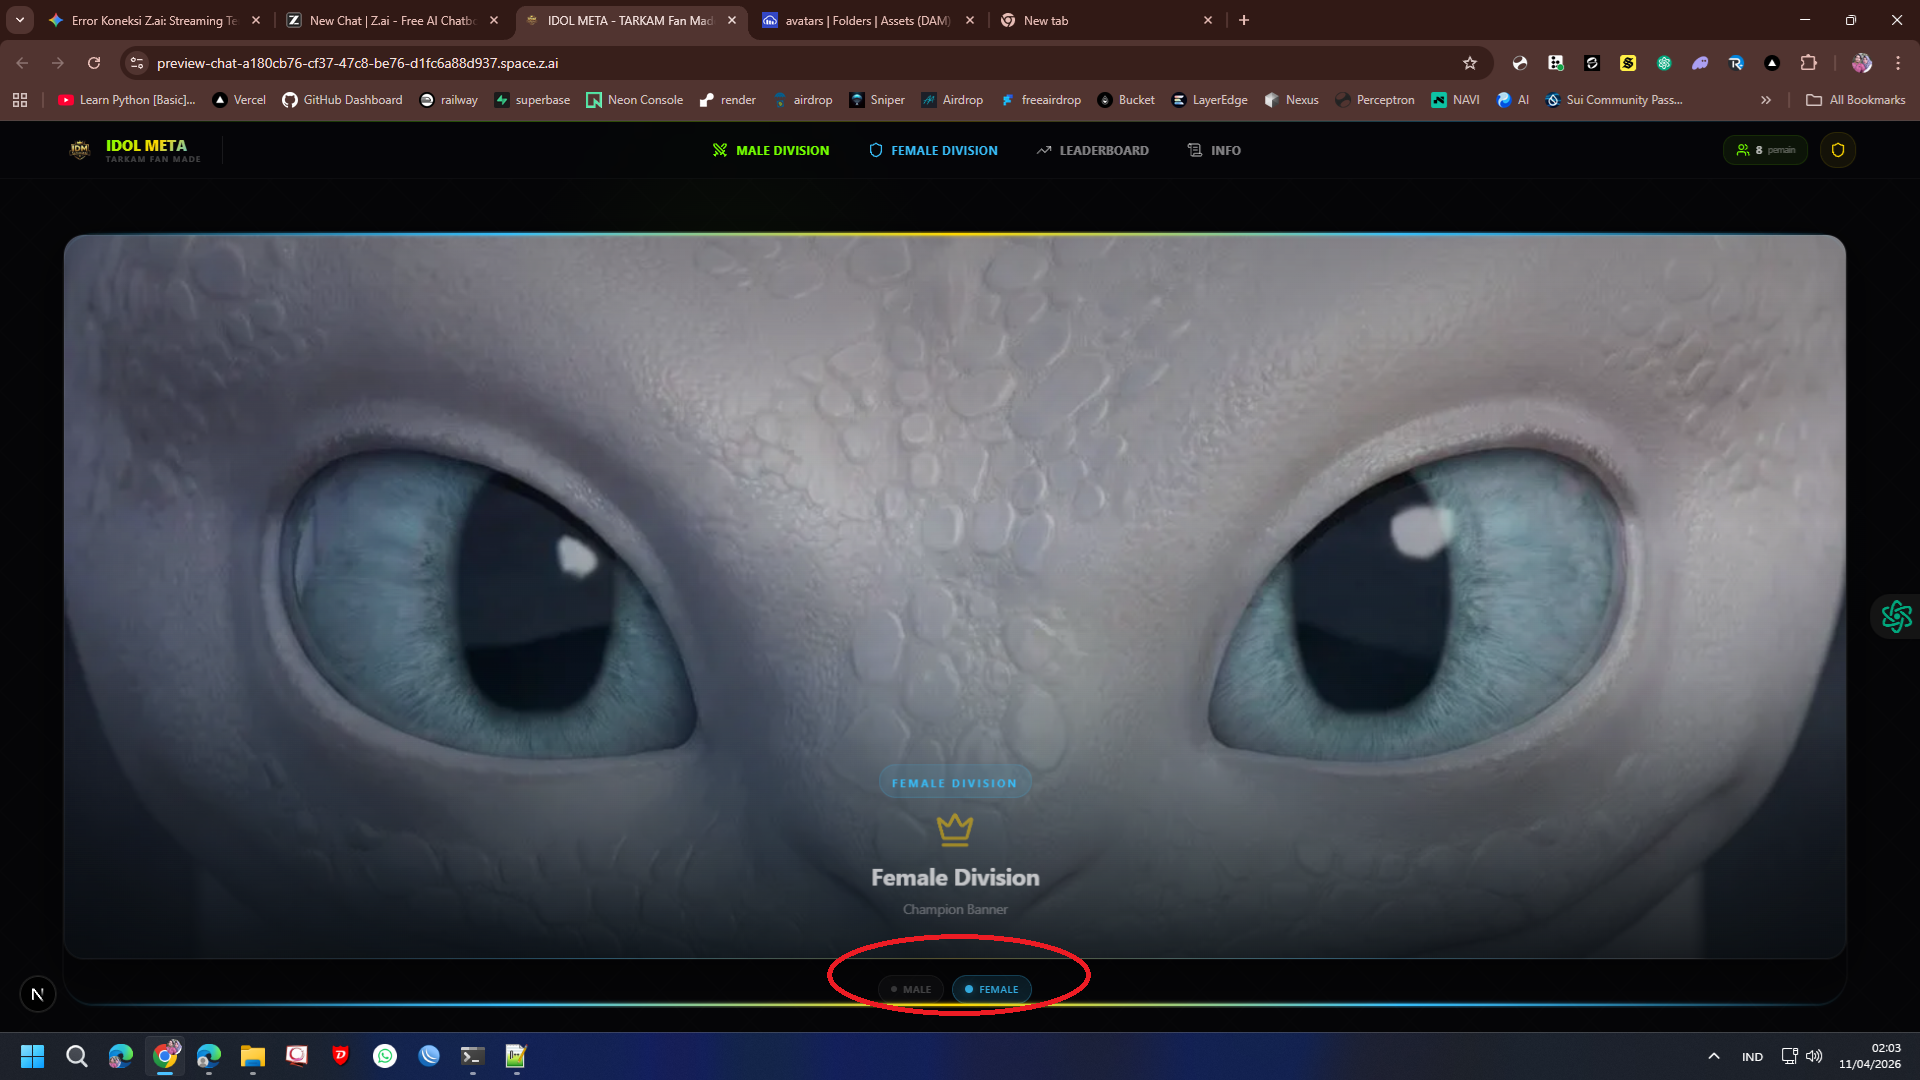
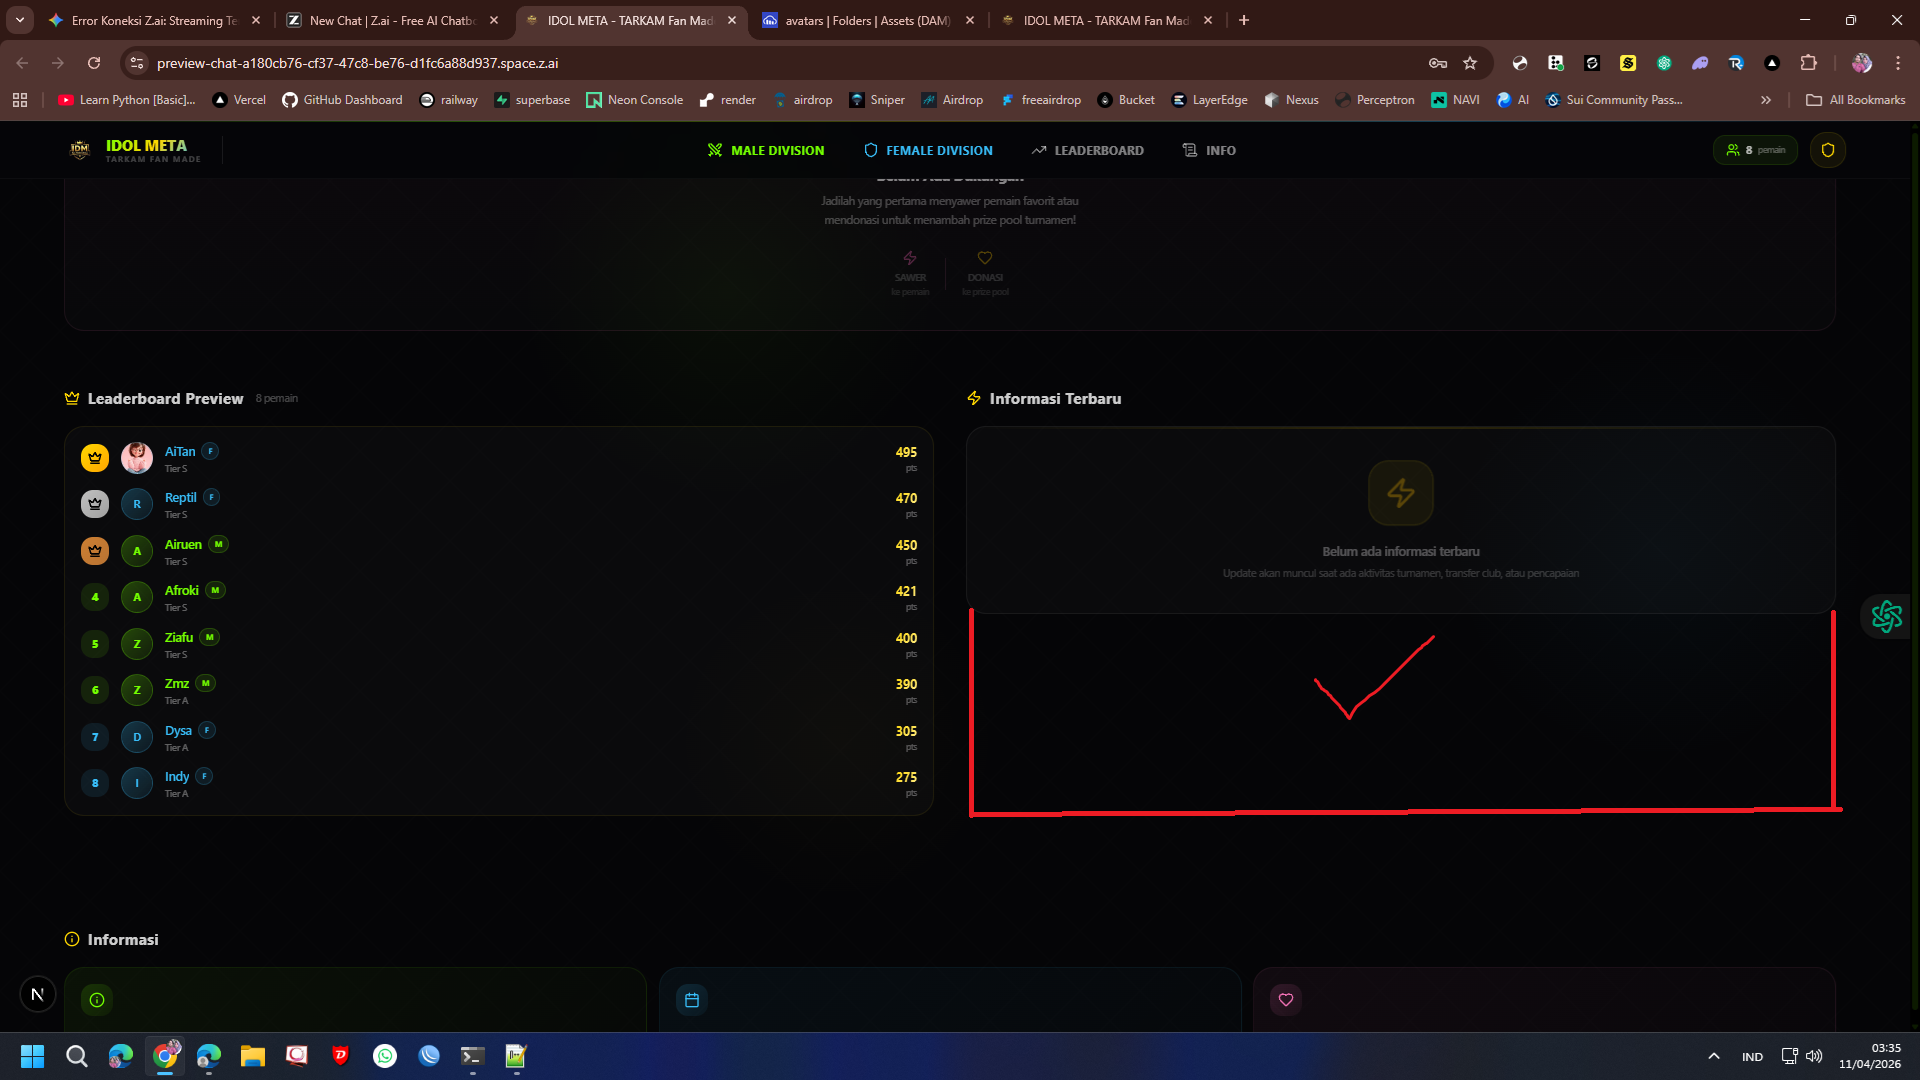
8086fd1e-0539-401b-a1db-8444151a6543

diff --git a/src/components/esports/LandingPage.tsx b/src/components/esports/LandingPage.tsx
@@ -890,7 +890,7 @@ function TopPlayersSection({ data, onPlayerClick }: { data: LandingData; onPlaye
   const hasMore = hiddenPlayers.length > 0;
 
   return (
-    <motion.div variants={itemVariants} className="w-full max-w-full">
+    <motion.div variants={itemVariants} className="w-full max-w-full md:h-full md:flex md:flex-col">
       <div className="flex items-center justify-between mb-4">
         <div className="flex items-center gap-2">
           <Crown className="w-4 h-4" style={{ color: '#FFD700' }} />
@@ -901,14 +901,14 @@ function TopPlayersSection({ data, onPlayerClick }: { data: LandingData; onPlaye
 
       {/* Leaderboard Card */}
       <div
-        className="rounded-2xl overflow-hidden"
+        className="rounded-2xl overflow-hidden md:flex-1 md:flex md:flex-col"
         style={{
           background: 'rgba(255,255,255,0.02)',
           border: '1px solid rgba(255,215,0,0.08)',
         }}
       >
         {/* Player Rows - Top 11 */}
-        <div className="px-2 py-2">
+        <div className="px-2 py-2 md:flex-1">
           {allPlayers.length > 0 ? (
             <PlayerList players={visiblePlayers} startDelay={0} onPlayerClick={onPlayerClick} />
           ) : (
@@ -1519,7 +1519,7 @@ function InformasiTerbaruSection({ data, onPlayerClick }: { data: LandingData; o
   const displayed = newsItems.slice(0, 15);
 
   return (
-    <motion.div variants={itemVariants} className="w-full max-w-full">
+    <motion.div variants={itemVariants} className="w-full max-w-full md:h-full md:flex md:flex-col">
       <div className="flex items-center gap-2 mb-4">
         <Zap className="w-4 h-4" style={{ color: '#FFD700' }} />
         <h2 className="text-[15px] font-bold text-white/80 tracking-wide">Informasi Terbaru</h2>
@@ -1530,7 +1530,7 @@ function InformasiTerbaruSection({ data, onPlayerClick }: { data: LandingData; o
 
       {displayed.length > 0 ? (
         <div
-          className="rounded-2xl overflow-hidden"
+          className="rounded-2xl overflow-hidden md:flex-1 md:flex md:flex-col"
           style={{
             background: 'rgba(255,255,255,0.02)',
             border: '1px solid rgba(255,215,0,0.06)',
@@ -1539,7 +1539,7 @@ function InformasiTerbaruSection({ data, onPlayerClick }: { data: LandingData; o
           {/* Top gradient accent */}
           <div className="h-[2px]" style={{ background: 'linear-gradient(90deg, transparent, rgba(255,215,0,0.3), rgba(115,255,0,0.2), transparent)' }} />
 
-          <div className="p-2 max-h-[520px] overflow-y-auto" style={{ scrollbarWidth: 'thin', scrollbarColor: 'rgba(255,215,0,0.10) transparent' }}>
+          <div className="p-2 max-h-[520px] md:max-h-none md:flex-1 overflow-y-auto" style={{ scrollbarWidth: 'thin', scrollbarColor: 'rgba(255,215,0,0.10) transparent' }}>
             {displayed.map((item, idx) => {
               const isMale = item.playerGender === 'male';
               const genderAccent = isMale ? '115,255,0' : '56,189,248';
@@ -1637,7 +1637,7 @@ function InformasiTerbaruSection({ data, onPlayerClick }: { data: LandingData; o
       ) : (
         <motion.div
           variants={cardVariants}
-          className="rounded-2xl overflow-hidden"
+          className="rounded-2xl overflow-hidden md:flex-1 md:flex md:flex-col"
           style={{
             background: 'rgba(255,255,255,0.02)',
             border: '1px solid rgba(255,255,255,0.06)',
@@ -2611,7 +2611,7 @@ export function LandingPage({ onEnterDivision, onAdminLogin, onPlayerClick, prel
         </div>
 
         {/* ═══ TOP PLAYERS + INFORMASI TERBARU — side by side on md+ ═══ */}
-        <div id="leaderboard-section" className="w-full grid grid-cols-1 md:grid-cols-2 gap-6 md:gap-8 mb-10 md:mb-14">
+        <div id="leaderboard-section" className="w-full grid grid-cols-1 md:grid-cols-2 gap-6 md:gap-8 mb-10 md:mb-14 md:items-stretch">
           <TopPlayersSection data={activeData} onPlayerClick={handlePlayerClick} />
           <InformasiTerbaruSection data={activeData} onPlayerClick={handlePlayerClick} />
         </div>
